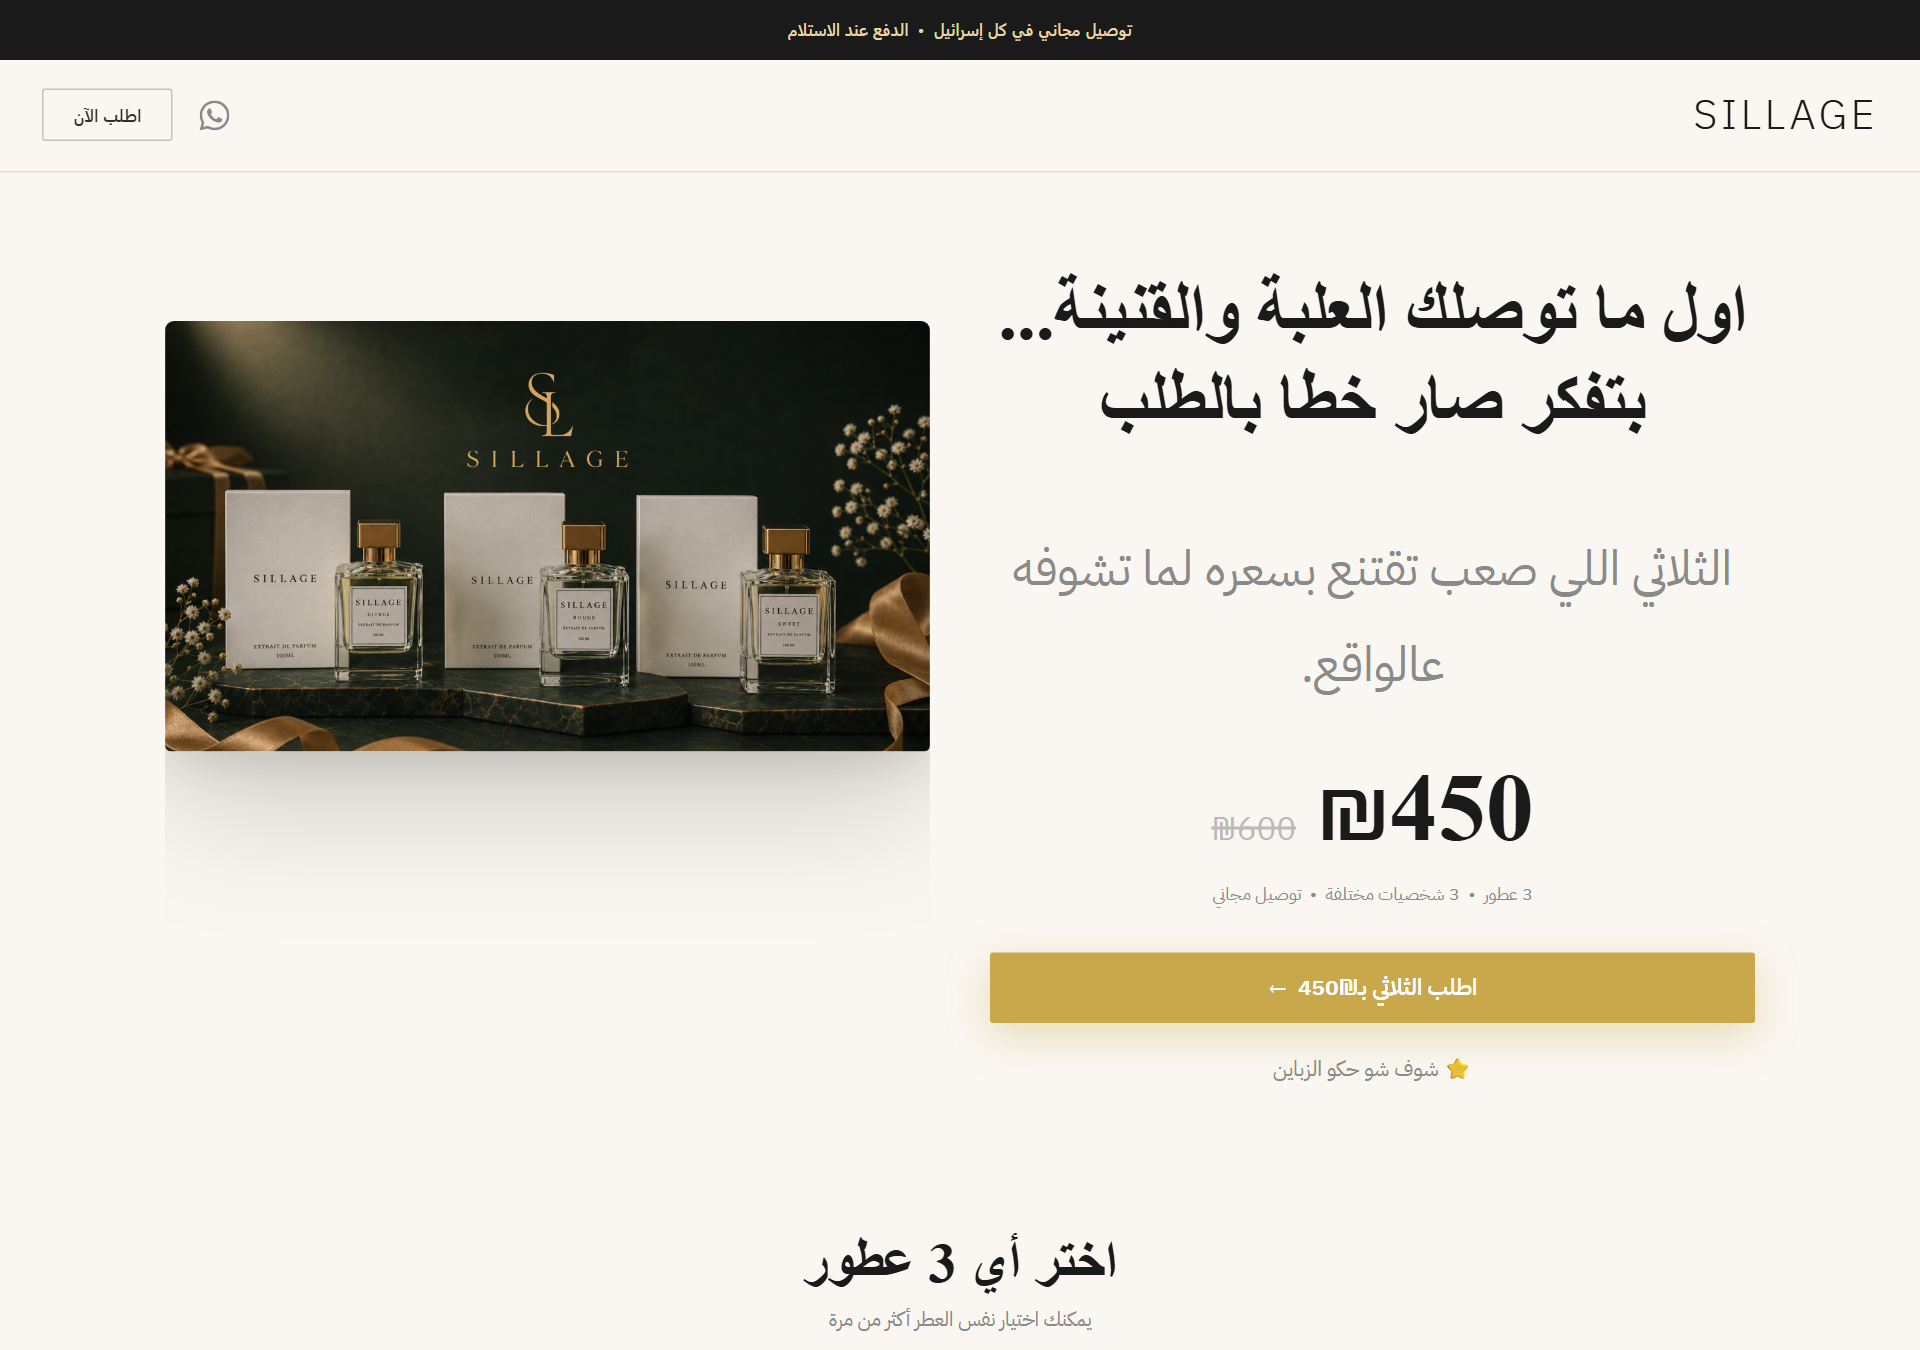
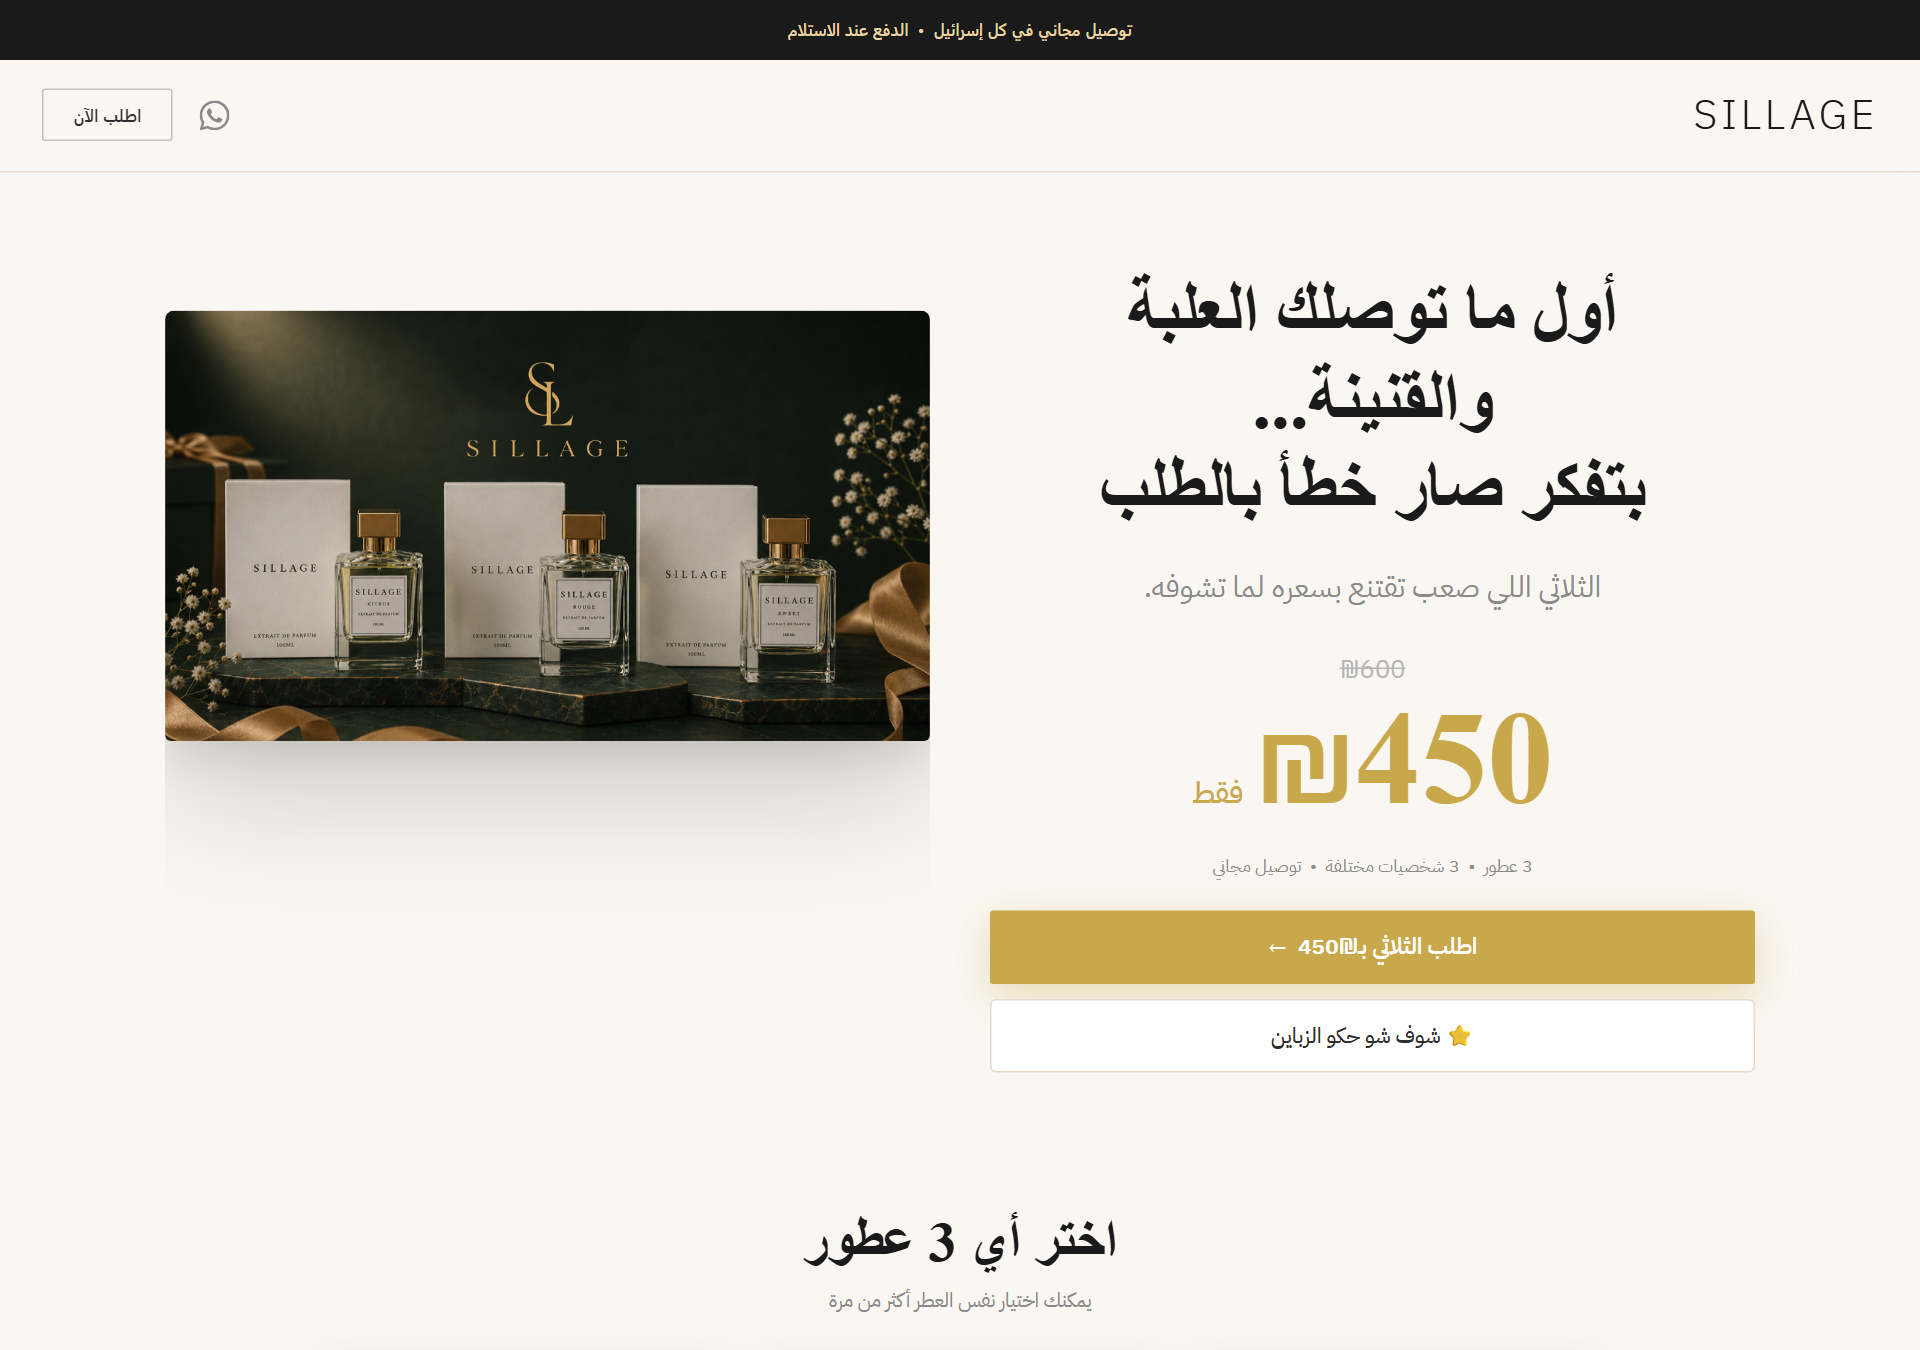
last upddate

diff --git a/ar/index.html b/ar/index.html
@@ -45,70 +45,90 @@
     }
     .nav-wa:hover { color: #25D366; }
 
+    /* ── Hero: tighten image-to-text gap on mobile ── */
+    @media (max-width: 860px) {
+      .hero { gap: 12px !important; padding-bottom: 24px !important; }
+    }
+
     /* ── Hero ── */
     .hero-headline {
       font-family: 'Noto Serif Arabic', serif;
-      font-size: clamp(24px, 5vw, 50px);
-      font-weight: 700;
-      line-height: 1.2;
+      font-size: clamp(24px, 5.5vw, 50px);
+      font-weight: 800;
+      line-height: 1.18;
       color: var(--black);
-      margin-bottom: 26px;
+      max-width: 90%;
+      margin: 0 auto 14px;
       text-align: center;
     }
     .hero-sub {
       font-family: 'IBM Plex Sans Arabic', sans-serif;
-      font-size: clamp(15px, 3vw, 32px);
+      font-size: clamp(13px, 2.4vw, 20px);
       font-weight: 400;
       color: var(--muted);
-      line-height: 1.45;
-      margin-top: 22px;
-      margin-bottom: 32px;
+      line-height: 1.4;
+      margin: 0 auto 22px;
       text-align: center;
     }
     .hero-price-block {
       display: flex;
-      align-items: baseline;
-      gap: 14px;
-      justify-content: center;
-      margin-bottom: 16px;
-    }
-    .hero-price {
-      font-family: 'Noto Serif Arabic', serif;
-      font-size: clamp(36px, 7vw, 64px);
-      font-weight: 700;
-      color: var(--black);
-      line-height: 1;
+      flex-direction: column;
+      align-items: center;
+      gap: 2px;
+      margin-bottom: 18px;
     }
     .hero-was {
       font-family: 'IBM Plex Sans Arabic', sans-serif;
-      font-size: clamp(15px, 2.2vw, 22px);
+      font-size: clamp(13px, 1.8vw, 17px);
       color: var(--muted);
       text-decoration: line-through;
-      opacity: 0.55;
+      opacity: 0.6;
+    }
+    .hero-price-row {
+      display: flex;
+      align-items: baseline;
+      gap: 8px;
+      justify-content: center;
+    }
+    .hero-price {
+      font-family: 'Noto Serif Arabic', serif;
+      font-size: clamp(54px, 11vw, 88px);
+      font-weight: 800;
+      color: var(--gold);
+      line-height: 1;
+    }
+    .hero-price-only {
+      font-family: 'IBM Plex Sans Arabic', sans-serif;
+      font-size: clamp(15px, 2.2vw, 20px);
+      font-weight: 500;
+      color: var(--gold);
+      line-height: 1;
     }
     .hero-trust {
       font-family: 'IBM Plex Sans Arabic', sans-serif;
       font-size: 12px;
       color: var(--muted);
-      margin-bottom: 28px;
+      margin-bottom: 20px;
       text-align: center;
       letter-spacing: 0.01em;
     }
     .hero-reviews-cta {
       display: block;
-      margin: 14px auto 0;
-      background: none;
-      border: none;
+      margin: 10px auto 0;
+      background: #ffffff;
+      border: 1.5px solid var(--beige);
+      border-radius: 4px;
       font-family: 'IBM Plex Sans Arabic', sans-serif;
       font-size: 14px;
-      color: var(--muted);
+      font-weight: 500;
+      color: var(--charcoal);
       cursor: pointer;
-      padding: 6px 0;
-      transition: color 0.2s;
+      padding: 13px 0;
+      transition: border-color 0.2s, color 0.2s;
       width: 100%;
       text-align: center;
     }
-    .hero-reviews-cta:hover { color: var(--charcoal); }
+    .hero-reviews-cta:hover { border-color: var(--charcoal); color: var(--black); }
 
     /* ── Selection section ── */
     .selection-section { padding: 44px 24px; background: var(--cream); }
@@ -511,9 +531,9 @@
     /* ── Mobile ── */
     @media (max-width: 640px) {
       .selection-section { padding: 32px 16px; }
-      .hero-headline { font-size: clamp(22px, 6.5vw, 36px); line-height: 1.22; }
-      .hero-sub { font-size: clamp(14px, 4.2vw, 22px); }
-      .hero-price { font-size: clamp(32px, 9vw, 52px); }
+      .hero-headline { font-size: clamp(22px, 6.5vw, 36px); line-height: 1.2; }
+      .hero-sub { font-size: clamp(13px, 4vw, 18px); }
+      .hero-price { font-size: clamp(50px, 13vw, 72px); }
       .review-card { flex: 0 0 240px; }
     }
   </style>
@@ -547,14 +567,17 @@
   ══════════════════════════════════ -->
   <section class="hero">
     <div class="hero-text">
-      <h1 class="hero-headline">اول ما توصلك العلبة والقنينة...<br/>بتفكر صار خطا بالطلب</h1>
+      <h1 class="hero-headline">أول ما توصلك العلبة والقنينة...<br/>بتفكر صار خطأ بالطلب</h1>
       <p class="hero-sub">الثلاثي اللي صعب تقتنع بسعره لما تشوفه.</p>
       <div class="hero-price-block">
-        <span class="hero-price">₪450</span>
         <span class="hero-was">₪600</span>
+        <div class="hero-price-row">
+          <span class="hero-price">₪450</span>
+          <span class="hero-price-only">فقط</span>
+        </div>
       </div>
       <p class="hero-trust">3 عطور &nbsp;•&nbsp; 3 شخصيات مختلفة &nbsp;•&nbsp; توصيل مجاني</p>
-      <button class="btn btn-gold" onclick="handleCTA()" style="font-size:15px; padding:16px 40px; width:100%;">
+      <button class="btn btn-gold" onclick="handleCTA()" style="font-size:15px; padding:17px 40px; width:100%;">
         اطلب الثلاثي بـ₪450 &nbsp;←
       </button>
       <button class="hero-reviews-cta" onclick="scrollToReviews()">⭐ شوف شو حكو الزباين</button>
